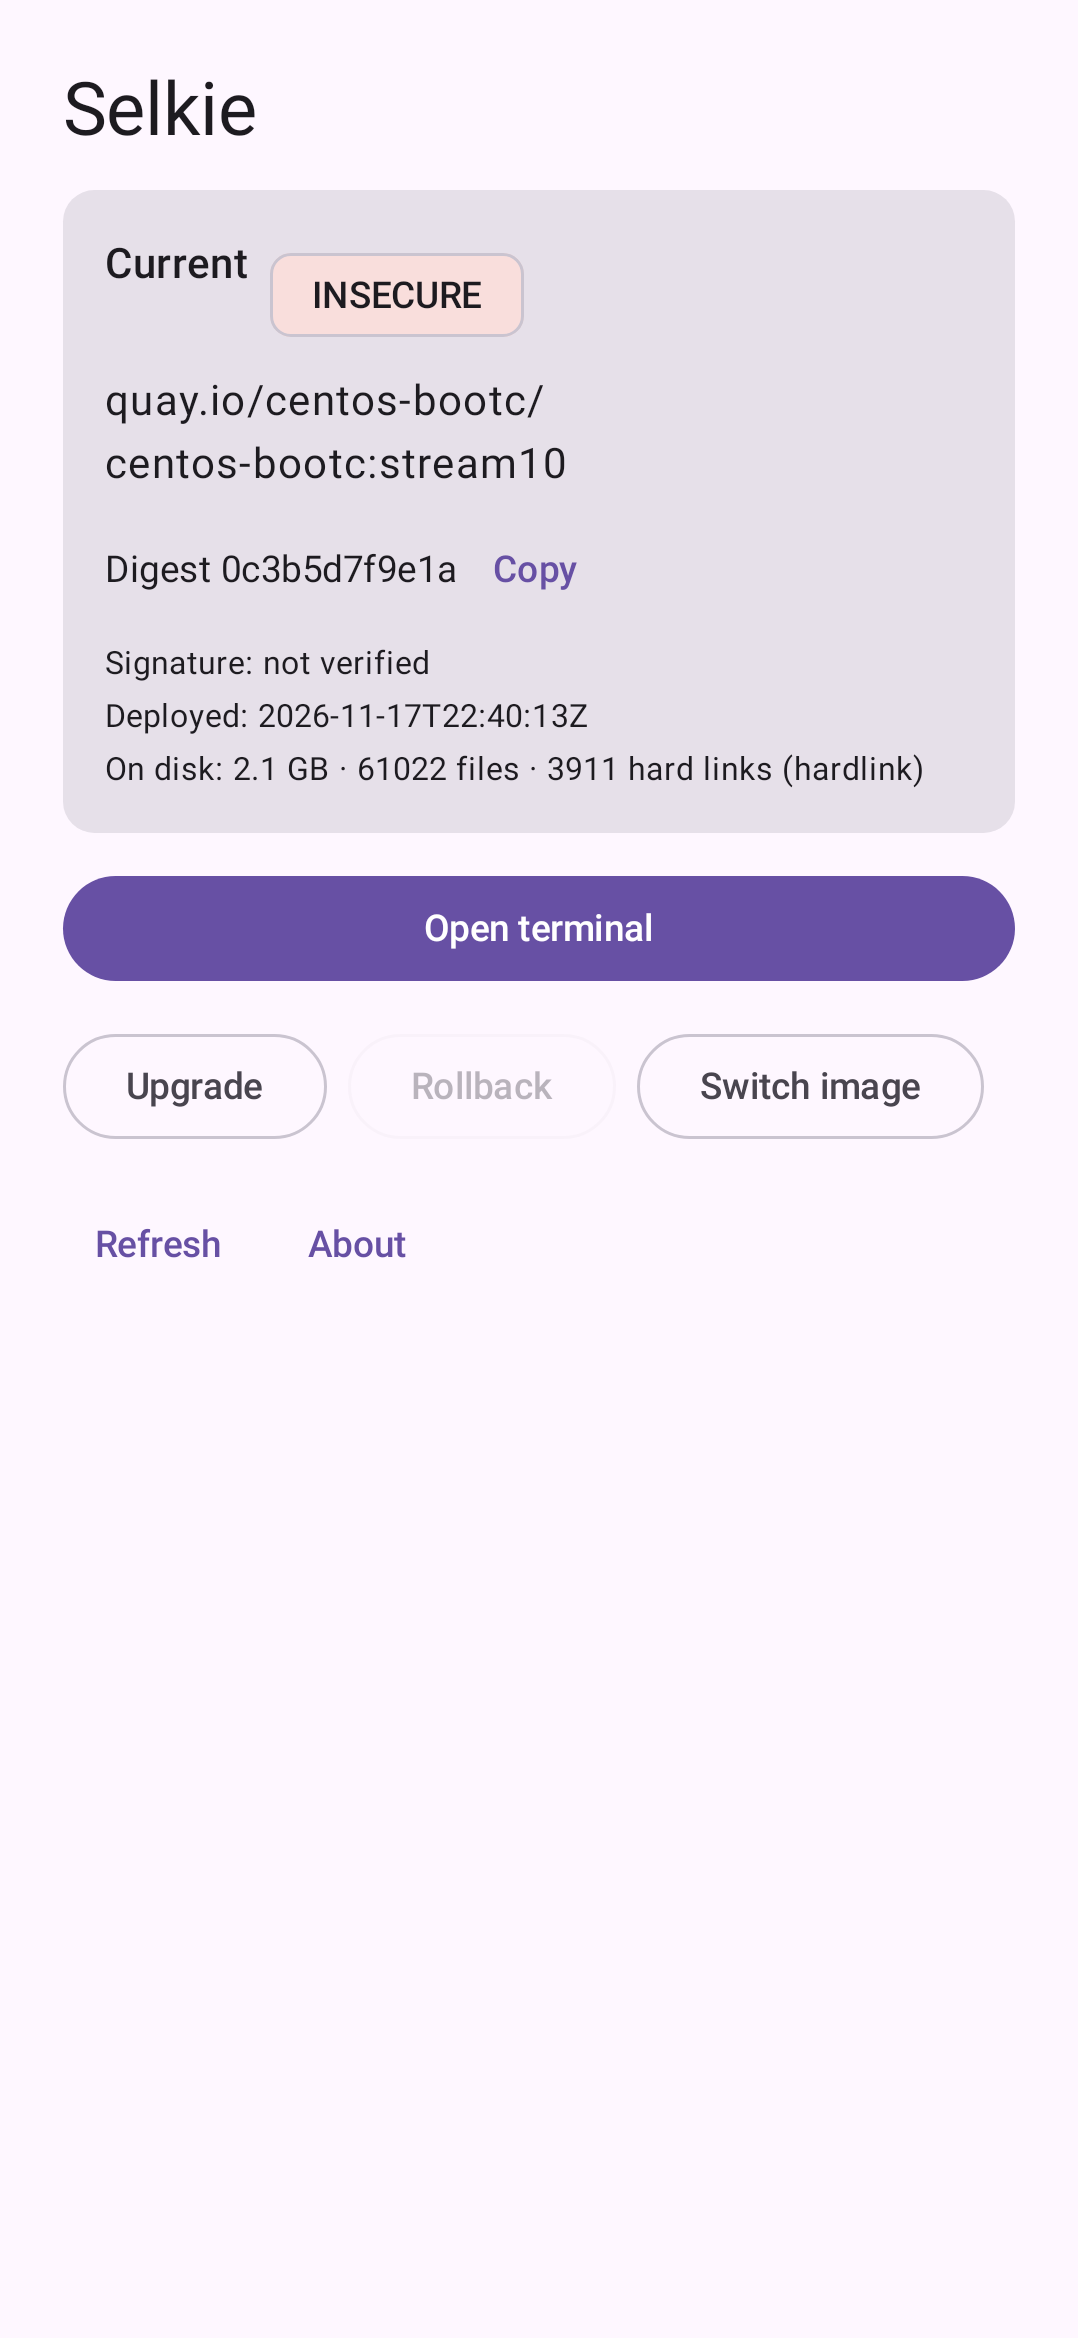
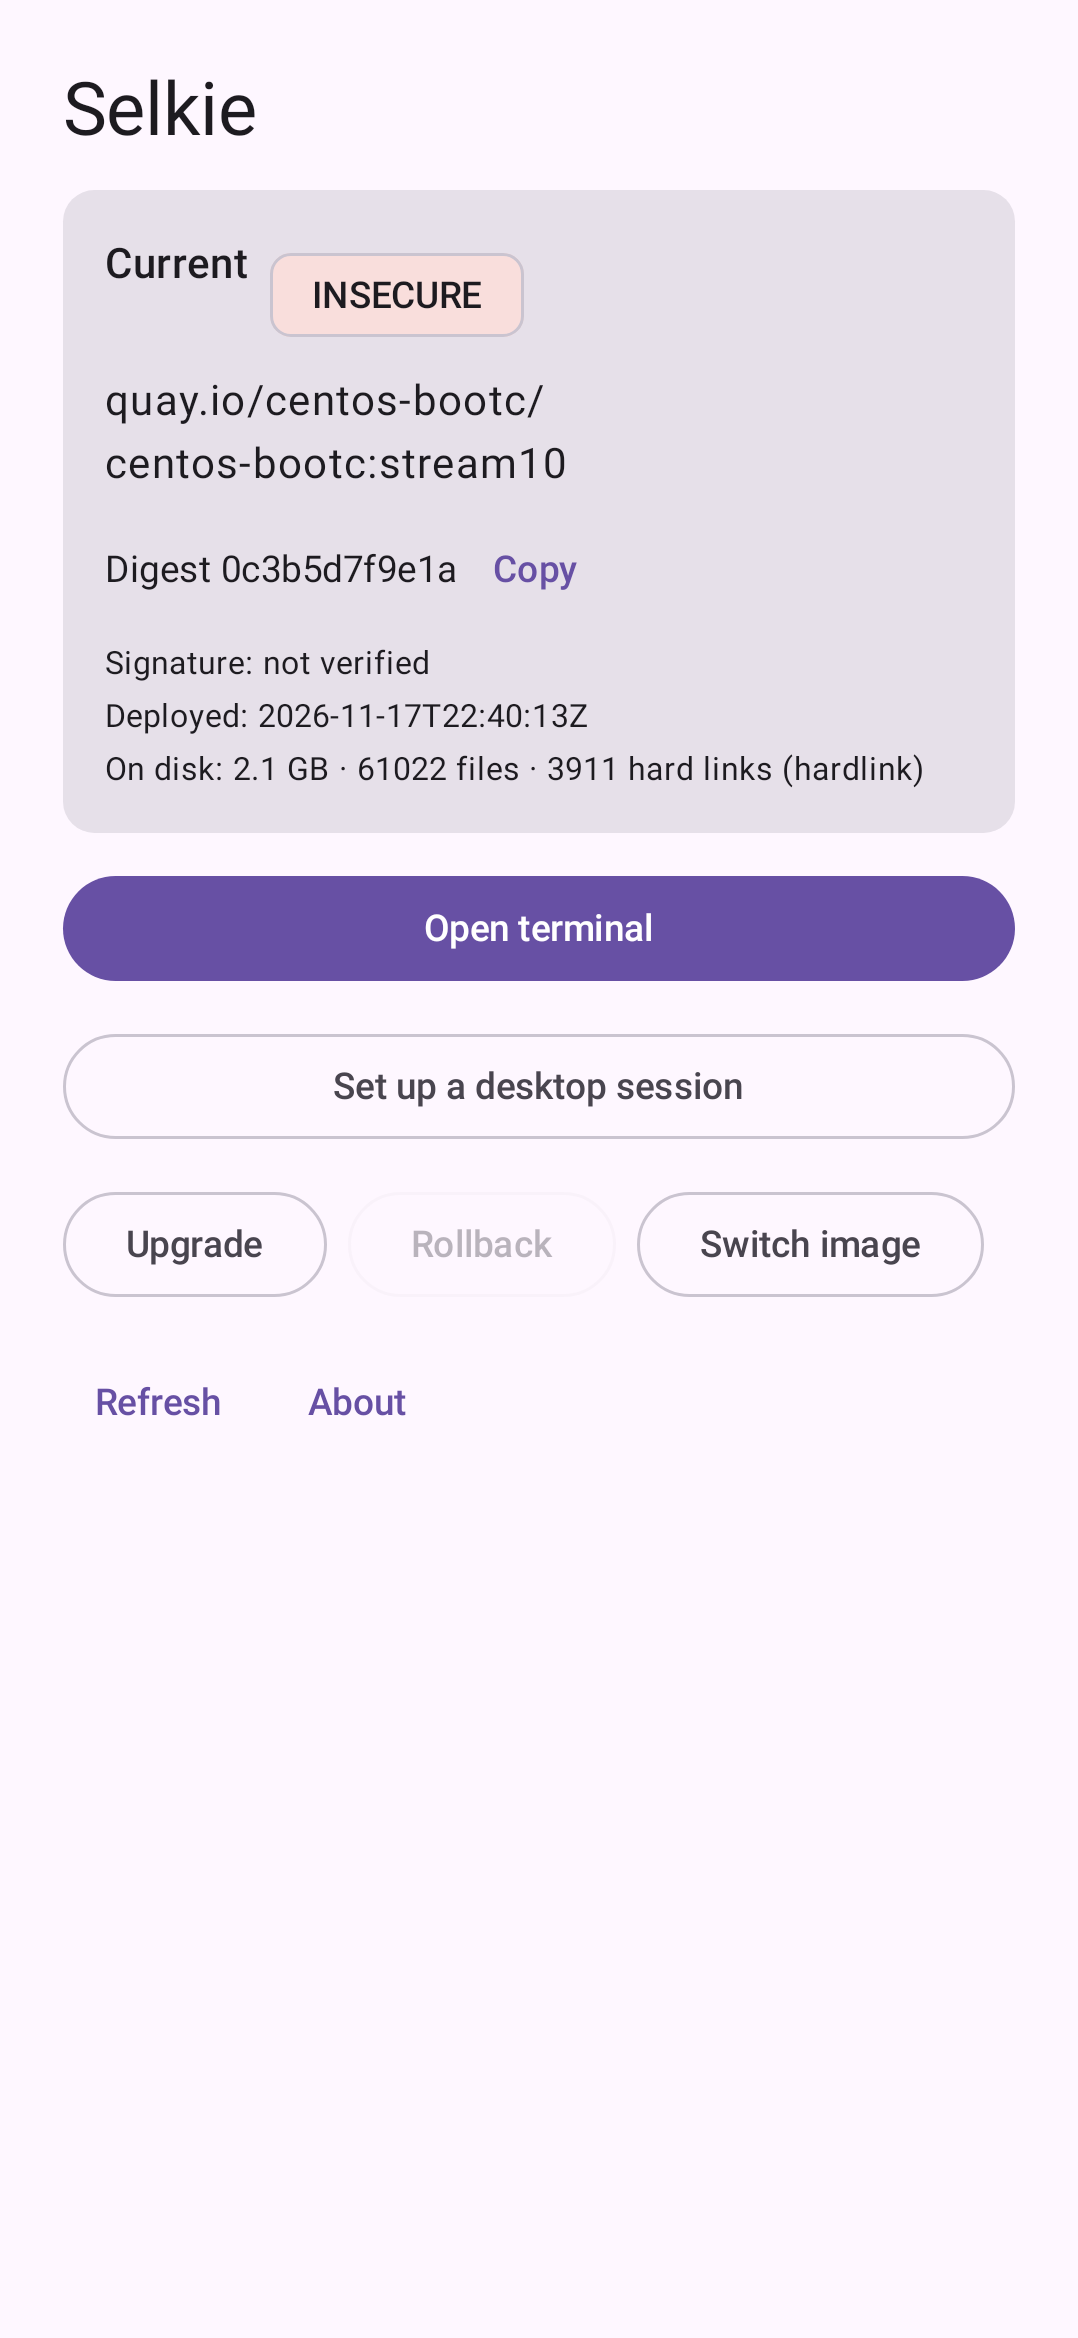
Previews: follow main's HomeScreen desktop buttons; add SessionConfig previews
Main added onOpenDesktop/onConfigureDesktop to HomeScreen, so the Home
previews no longer compiled on the merged PR. Home previews now pass
named arguments and cover the desktop buttons; SessionConfigScreen gets
previews for the unconfigured and override states. Screenshots
re-recorded (42).

diff --git a/app/src/main/kotlin/io/github/keplersj/selkie/ui/Previews.kt b/app/src/main/kotlin/io/github/keplersj/selkie/ui/Previews.kt
@@ -17,8 +17,10 @@ import io.github.keplersj.selkie.engine.DeployStats
 import io.github.keplersj.selkie.engine.Deployment
 import io.github.keplersj.selkie.engine.DroidcError
 import io.github.keplersj.selkie.engine.ErrorKind
+import io.github.keplersj.selkie.engine.GraphicalSession
 import io.github.keplersj.selkie.engine.Signature
 import io.github.keplersj.selkie.engine.StatusData
+import io.github.keplersj.selkie.service.DesktopState
 import io.github.keplersj.selkie.service.OpKind
 import io.github.keplersj.selkie.service.Operation
 import io.github.keplersj.selkie.service.ServiceState
@@ -64,11 +66,17 @@ object Fixtures {
         stats = DeployStats(files = 61_022, bytesOnDisk = 2_208_374_784, hardlinks = 3_911, linkStrategy = "hardlink"),
     )
 
+    val gnome = GraphicalSession(name = "GNOME", renderer = "screencast",
+        exec = listOf("gnome-shell", "--headless", "--virtual-monitor", "{width}x{height}"),
+        configured = true, source = "label")
+    val noSession = GraphicalSession(configured = false)
+
     val homeInstalled = ServiceState(
         status = StatusData(current = bluefin, previous = bluefinOld), statusLoaded = true,
         sessions = listOf(SessionInfo("1", "bash", true), SessionInfo("2", "htop", true)),
+        graphical = gnome, desktop = DesktopState.Running(2560, 1600),
     )
-    val homeInsecure = ServiceState(status = StatusData(current = centos), statusLoaded = true)
+    val homeInsecure = ServiceState(status = StatusData(current = centos), statusLoaded = true, graphical = noSession)
     val homeEmpty = ServiceState(statusLoaded = true)
     val homeError = ServiceState(statusLoaded = true,
         statusError = "droidc exited with code 101: state.json: unexpected end of file")
@@ -92,21 +100,27 @@ private val noop: () -> Unit = {}
 
 // --- Home ---
 
+@Composable
+private fun Home(state: ServiceState) = PreviewFrame {
+    HomeScreen(state, onOpenTerminal = noop, onOpenDesktop = noop, onConfigureDesktop = noop, onUpgrade = noop,
+        onRollback = noop, onSwitch = noop, onAbout = noop, onRefresh = noop)
+}
+
 @PhonePreviews @TabletPreview
 @Composable
-fun HomeInstalledPreview() = PreviewFrame { HomeScreen(Fixtures.homeInstalled, noop, noop, noop, noop, noop, noop) }
+fun HomeInstalledPreview() = Home(Fixtures.homeInstalled)
 
 @PhonePreviews
 @Composable
-fun HomeInsecurePreview() = PreviewFrame { HomeScreen(Fixtures.homeInsecure, noop, noop, noop, noop, noop, noop) }
+fun HomeInsecurePreview() = Home(Fixtures.homeInsecure)
 
 @PhonePreviews
 @Composable
-fun HomeEmptyPreview() = PreviewFrame { HomeScreen(Fixtures.homeEmpty, noop, noop, noop, noop, noop, noop) }
+fun HomeEmptyPreview() = Home(Fixtures.homeEmpty)
 
 @PhonePreviews
 @Composable
-fun HomeErrorPreview() = PreviewFrame { HomeScreen(Fixtures.homeError, noop, noop, noop, noop, noop, noop) }
+fun HomeErrorPreview() = Home(Fixtures.homeError)
 
 // --- Setup ---
 
@@ -121,6 +135,22 @@ fun SetupFirstRunPreview() = PreviewFrame {
 fun SetupCustomPreview() = PreviewFrame {
     SetupScreen("Switch image", initialRef = "ghcr.io/example/my-bootc:latest", onStart = { _, _ -> },
         onBack = noop, free = 6_442_450_944)
+}
+
+// --- Desktop session settings (DesktopScreen itself needs a live SessionService) ---
+
+@PhonePreviews
+@Composable
+fun SessionConfigNonePreview() = PreviewFrame {
+    SessionConfigScreen(Fixtures.noSession, onSave = { _, _, _, _, _ -> }, onClear = noop, onBack = noop)
+}
+
+@PhonePreviews
+@Composable
+fun SessionConfigOverridePreview() = PreviewFrame {
+    SessionConfigScreen(Fixtures.gnome.copy(source = "override",
+        services = listOf(listOf("pipewire"), listOf("wireplumber"))),
+        onSave = { _, _, _, _, _ -> }, onClear = noop, onBack = noop)
 }
 
 // --- Progress ---
